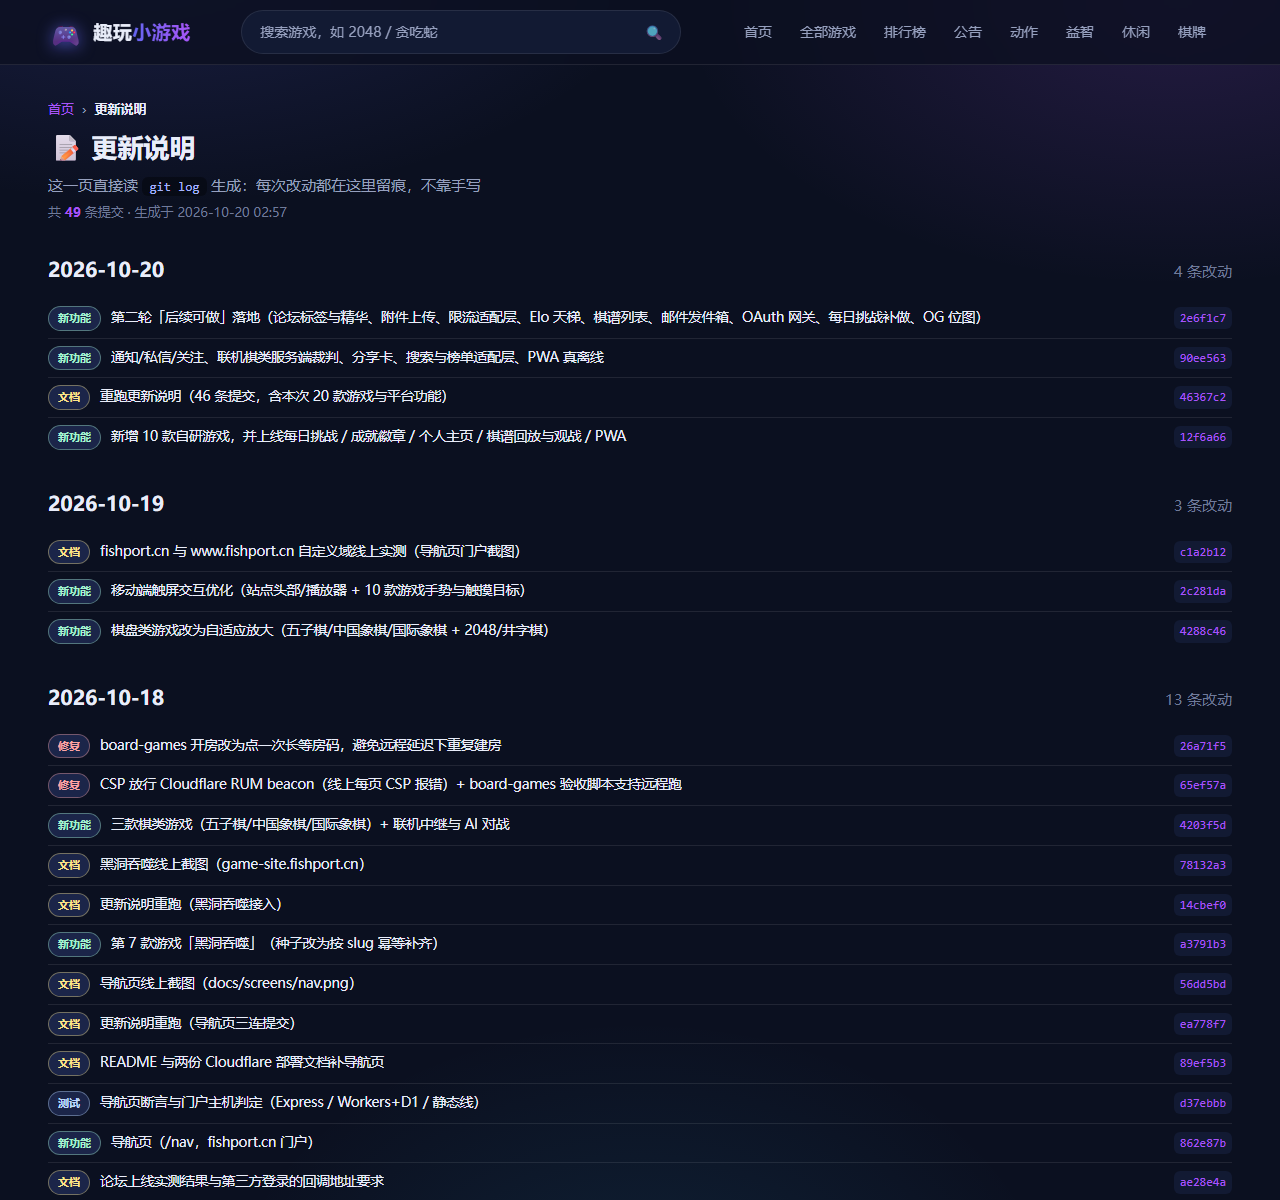
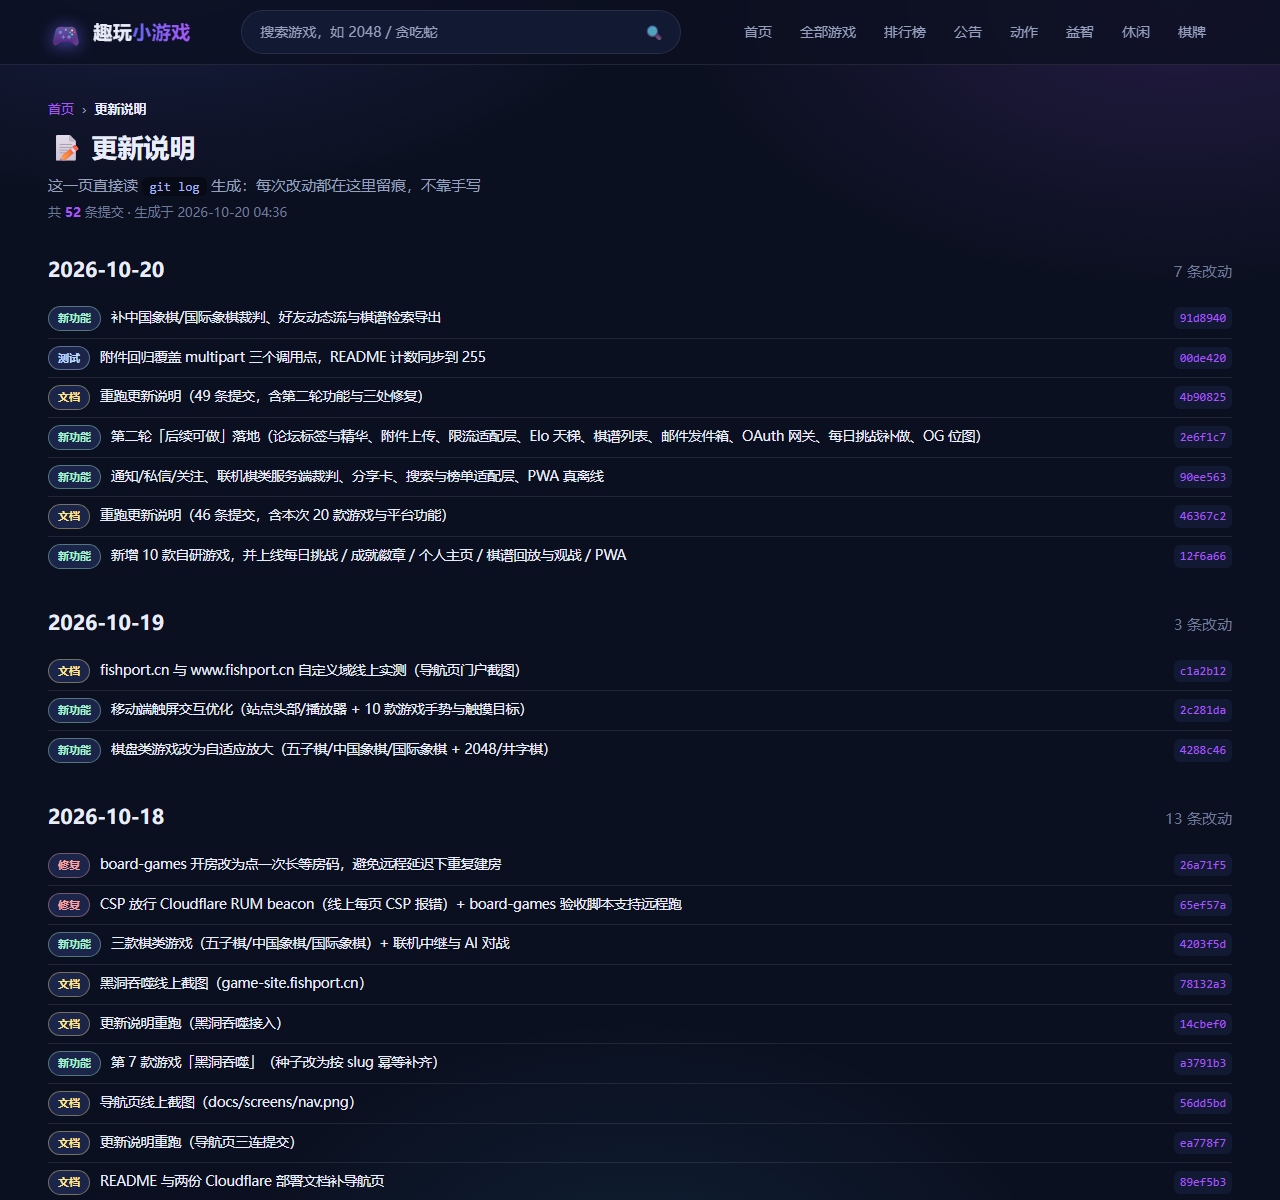
docs: 更新说明补上本轮提交（52 条）

diff --git a/src/changelog-data.js b/src/changelog-data.js
@@ -1,7 +1,31 @@
 // 这个文件由 tools/gen-changelog.mjs 从 git 提交历史生成，不要手改；发版前重跑一次并一起提交。
-export const CHANGELOG_GENERATED = "2026-10-20 02:57";
-export const CHANGELOG_TOTAL = 49;
+export const CHANGELOG_GENERATED = "2026-10-20 04:36";
+export const CHANGELOG_TOTAL = 52;
 export const CHANGELOG = [
+  {
+    "hash": "91d8940",
+    "date": "2026-10-20 12:32",
+    "day": "2026-10-20",
+    "kind": "feat",
+    "kindLabel": "新功能",
+    "subject": "补中国象棋/国际象棋裁判、好友动态流与棋谱检索导出"
+  },
+  {
+    "hash": "00de420",
+    "date": "2026-10-20 11:18",
+    "day": "2026-10-20",
+    "kind": "test",
+    "kindLabel": "测试",
+    "subject": "附件回归覆盖 multipart 三个调用点，README 计数同步到 255"
+  },
+  {
+    "hash": "4b90825",
+    "date": "2026-10-20 10:57",
+    "day": "2026-10-20",
+    "kind": "docs",
+    "kindLabel": "文档",
+    "subject": "重跑更新说明（49 条提交，含第二轮功能与三处修复）"
+  },
   {
     "hash": "2e6f1c7",
     "date": "2026-10-20 10:57",
